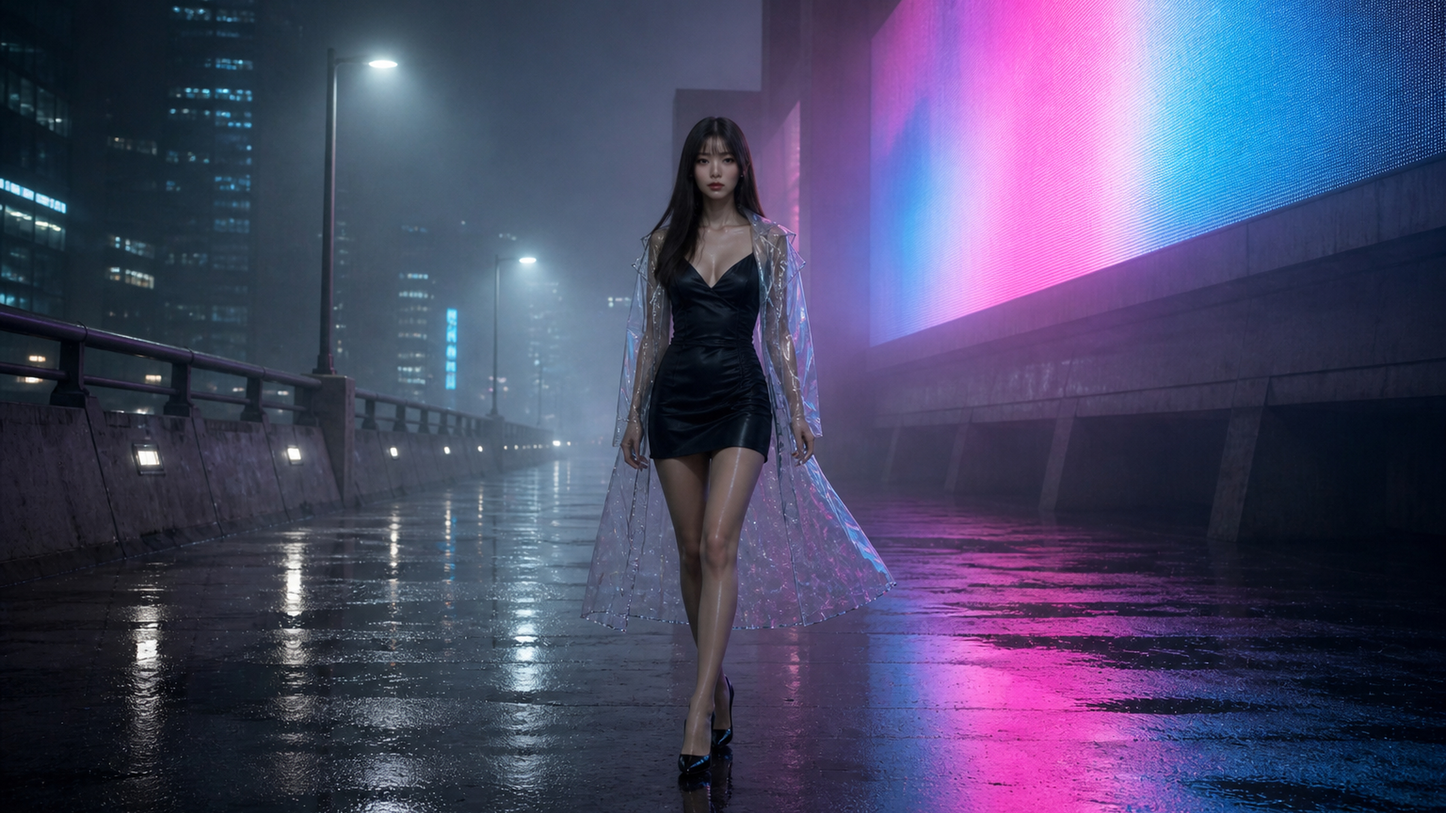
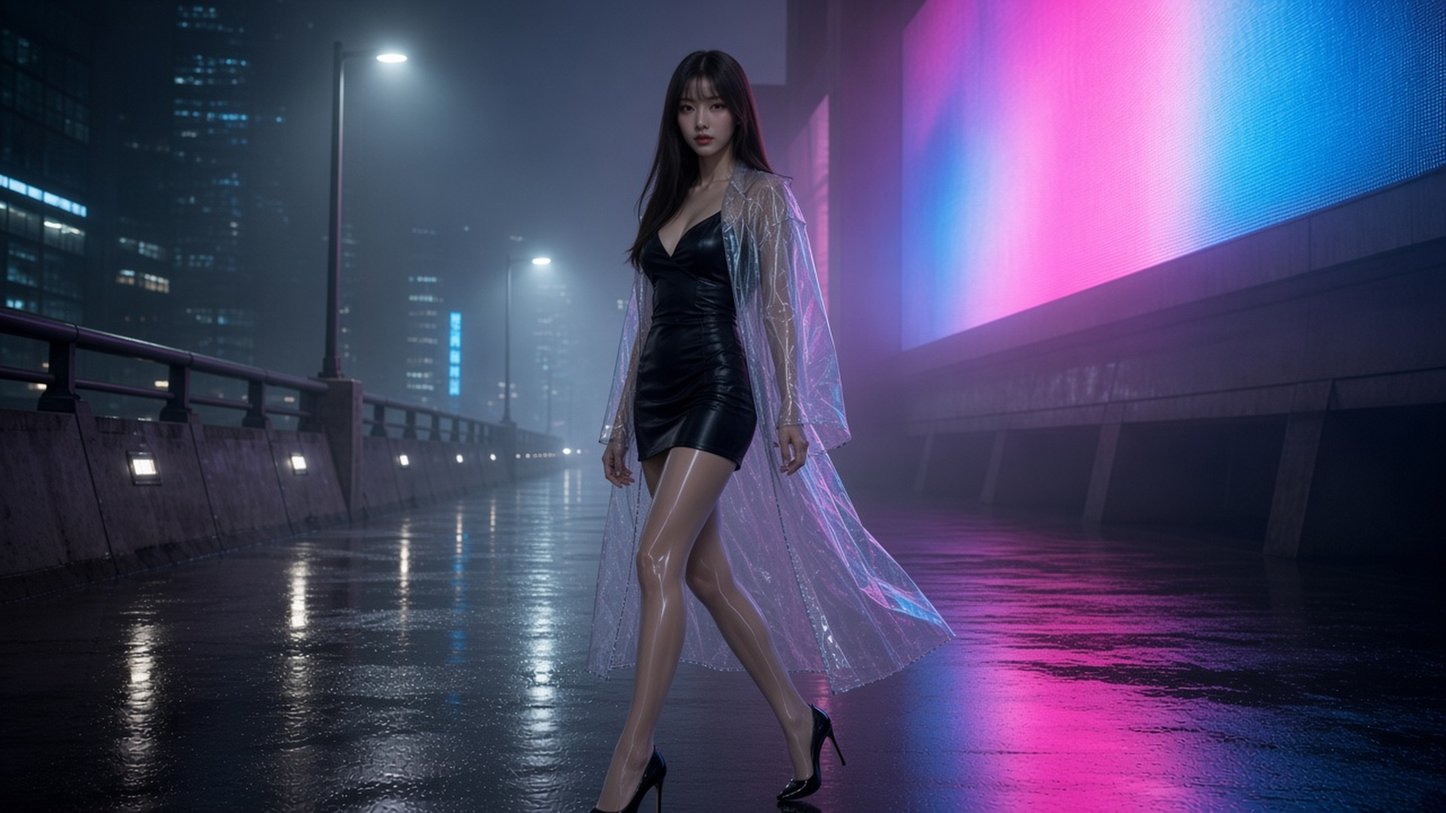
Zoom neon-dystopia hours 6-9 and 13 onto the operators
Keep the women in frame, drop the sun from hour 6, and split the duplicate LED wall so 13 is a fog overpass instead of a twin of 9.

diff --git a/images/neon-dystopia/task-blade-runner-2049.md b/images/neon-dystopia/task-blade-runner-2049.md
@@ -20,8 +20,10 @@
 |---|---|---|---|
 | `0–2` | `0.jpg` | 粉藍 LED 雨夜、混凝土峽谷、無人 | 廣告光是唯一主光；已離開 1982 霓虹巷 |
 | `3–5` | `3.jpg` | 工業屋頂、琥珀窗、霧 | 工業體量可用，但缺 2049 的分區色碼 |
-| `6–8` | `6.jpg` | 高空霾城、冷灰、無強霓虹 | 最接近 2049 的 LA 日景 |
-| `9–14` | 各一張獨立圖 | 已重產：霾城／廳堂／金階／水殿／粉雨／Vegas 雕像，含人物 | `12.jpg` 後續改為黑金兩件式、加大胸前鏤空、極薄黑褲襪 |
+| `6` | `6.jpg` | 霾城露台＋冰灰兩件式、極薄黑褲襪 | 無太陽；人物拉近 |
+| `7` | `7.jpg` | 機構大廳＋瀏海大衣、極薄黑褲襪 | 同一大廳拉近，腿清楚 |
+| `8` | `8.jpg` | 機構大廳＋黑金短洋裝、極薄黑褲襪 | 側步拉近，與 7 同廳不同人 |
+| `9–14` | 各一張獨立圖 | 已重產：LED 雨衣近景／廳堂／金階／水殿／霧堤近景／Vegas | `9` 留粉藍 LED；`13` 改灰霧堤、去掉重複 LED 牆 |
 | `15` | `15.jpg` | 城市 OS 主畫面＋人物（窄裙、透明絲襪、高跟鞋） | 場景仍是午後界面；人物契約對齊 8／14 |
 | `16` | `16.jpg` | 交通／電網 OS＋兩件式窄裙操作者 | 儀表更密；露腰線、高腰窄裙 |
 | `17` | `17.jpg` | 行政區模組＋新人物（偏後、膚色褲襪） | 更近、更幾何；回眸兩件式 |
@@ -31,7 +33,7 @@
 | `21–22` | `22.jpg` | 銀雪繭建築遠景、無人雪階 | 銀白、無廣告；21 與 22 同一張 |
 | `23` | `23.jpg` | 銀雪繭近景 | 更近、更靜、無廣告 |
 
-主要缺口：蛋白農場、海堤光池、聖地牙哥垃圾／工業內臟、K 的預製小宅。粉藍 LED 雨夜與銀雪已補；中段仍混有日霾太陽、重複 LED 牆與大廳。
+主要缺口：蛋白農場、海堤光池、聖地牙哥垃圾／工業內臟、K 的預製小宅。粉藍 LED 雨夜與銀雪已補；`6` 已去掉太陽並拉近人物，`9`／`13` 不再共用 LED 牆。
 
 ## 2049 與 1982 的差異（調整時的試金石）
 
